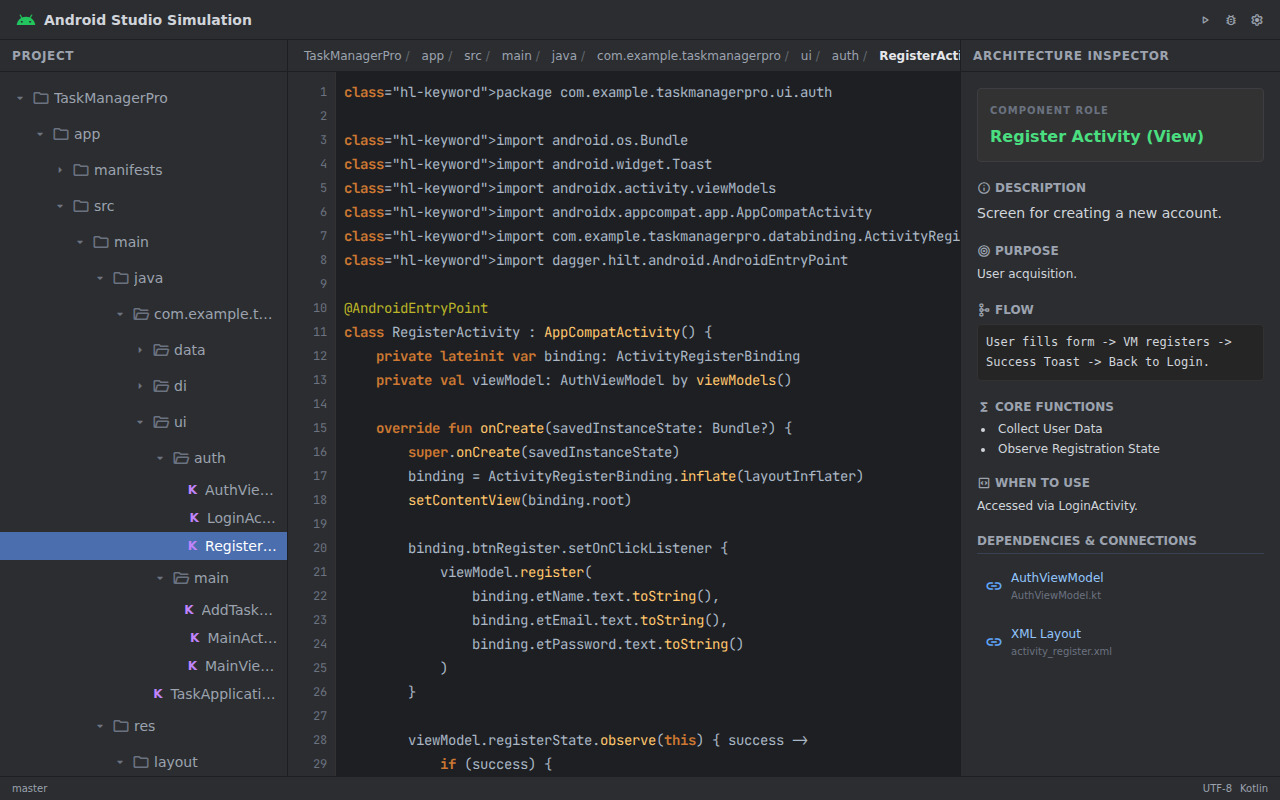
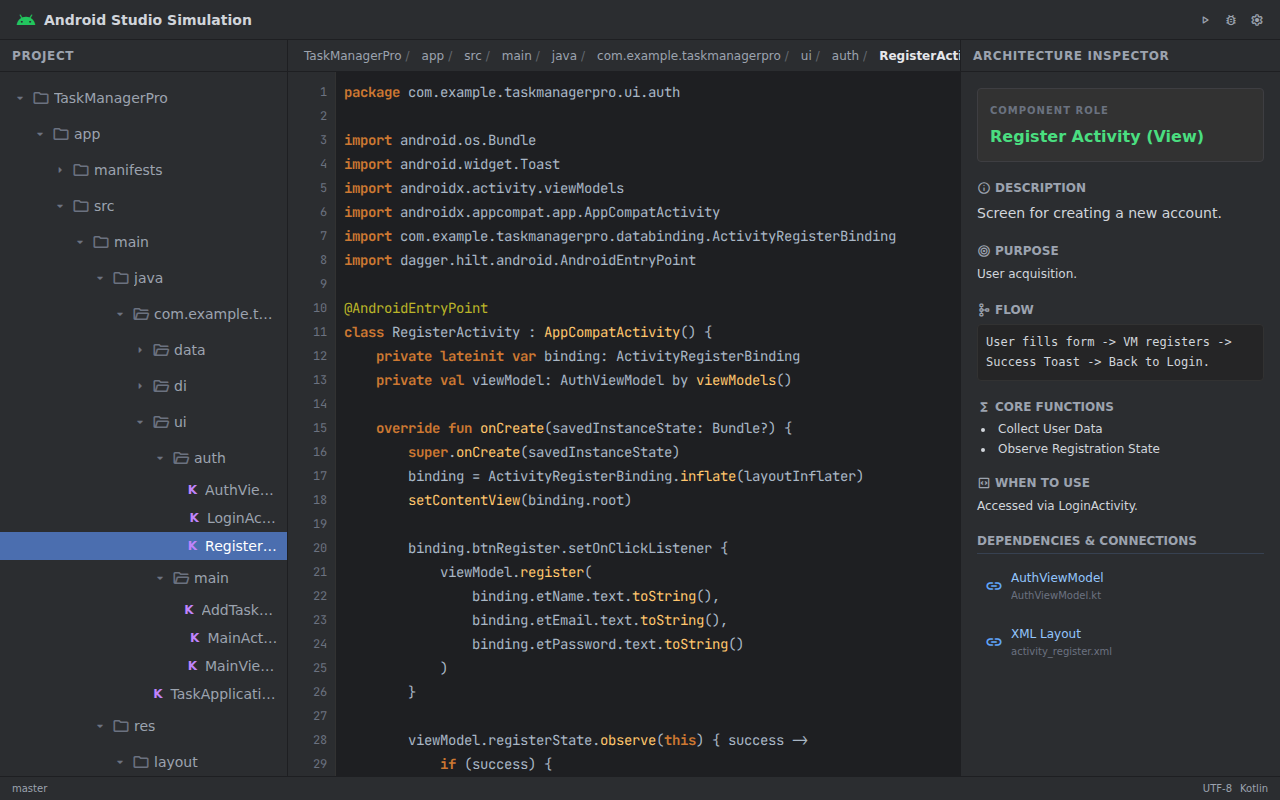
Fix syntax highlighting regex collision
- Refactor `syntaxHighlight` in `script.js` to use a placeholder-based multi-pass strategy.
- Prevents generated HTML attributes (e.g., `class="..."`) from being erroneously matched by keyword regexes (e.g., `class` keyword).
- Ensures correct highlighting for both Kotlin and XML without artifacts.

Changed region(s): [[0.25, 0.1562, 0.75, 0.3438], [0.2812, 0.0938, 0.6562, 0.125]]

diff --git a/script.js b/script.js
@@ -1313,42 +1313,84 @@ function syntaxHighlight(code, language) {
     let cleanCode = code.replace(/&/g, '&amp;').replace(/</g, '&lt;').replace(/>/g, '&gt;');
 
     if (language === 'kotlin') {
-        // Use placeholders to prevent regex overlapping
+        // 1. Hide Strings
         const strings = [];
         cleanCode = cleanCode.replace(/(".*?")/g, (match) => {
             strings.push(match);
             return `___STRING${strings.length - 1}___`;
         });
 
-        // Keywords
+        // 2. Mark Keywords
+        // We use a specific prefix to avoid collision
         const keywords = ["package", "import", "class", "interface", "fun", "val", "var", "return", "if", "else", "for", "while", "true", "false", "null", "this", "super", "object", "companion", "override", "private", "public", "protected", "internal", "lateinit", "constructor", "init", "try", "catch", "finally", "suspend", "data", "sealed", "open", "abstract", "enum"];
+
         keywords.forEach(kw => {
-            // Ensure we don't match inside existing tags (though placeholders prevent this mostly)
             const regex = new RegExp(`\\b${kw}\\b`, 'g');
-            cleanCode = cleanCode.replace(regex, `<span class="hl-keyword">${kw}</span>`);
+            cleanCode = cleanCode.replace(regex, `___KW_${kw}___`);
         });
 
-        // Restore strings
+        // 3. Mark Annotations
+        cleanCode = cleanCode.replace(/(@\w+)/g, '___ANNOTATION_$1___');
+
+        // 4. Mark Numbers
+        cleanCode = cleanCode.replace(/\b(\d+)\b/g, '___NUMBER_$1___');
+
+        // 5. Mark Functions
+        cleanCode = cleanCode.replace(/\b([a-zA-Z]\w*)(?=\()/g, '___FUNCTION_$1___');
+
+        // REPLACE BACK
+        // Order: Annotations, Functions, Keywords, Numbers, Strings
+
+        // Keywords
+        cleanCode = cleanCode.replace(/___KW_(.*?)___/g, '<span class="hl-keyword">$1</span>');
+
+        // Annotations
+        cleanCode = cleanCode.replace(/___ANNOTATION_(@\w+)___/g, '<span class="hl-annotation">$1</span>');
+
+        // Numbers
+        cleanCode = cleanCode.replace(/___NUMBER_(\d+)___/g, '<span class="hl-number">$1</span>');
+
+        // Functions
+        cleanCode = cleanCode.replace(/___FUNCTION_([a-zA-Z]\w*)___/g, '<span class="hl-function">$1</span>');
+
+        // Restore Strings (last to avoid anything matching inside them)
         cleanCode = cleanCode.replace(/___STRING(\d+)___/g, (match, i) => {
             return `<span class="hl-string">${strings[i]}</span>`;
         });
 
-        // Annotations
-        cleanCode = cleanCode.replace(/(@\w+)/g, '<span class="hl-annotation">$1</span>');
-        // Numbers
-        cleanCode = cleanCode.replace(/\b(\d+)\b/g, '<span class="hl-number">$1</span>');
-        // Functions (simplified detection: word followed by parenthesis)
-        cleanCode = cleanCode.replace(/\b(\w+)(?=\()/g, '<span class="hl-function">$1</span>');
-
     } else if (language === 'xml') {
-        // Comments
-        cleanCode = cleanCode.replace(/(&lt;!--[\s\S]*?--&gt;)/g, '<span class="hl-comment">$1</span>');
-        // Tags
-        cleanCode = cleanCode.replace(/(&lt;\/?)([\w:.]+)/g, '$1<span class="hl-tag">$2</span>');
-        // Attributes
-        cleanCode = cleanCode.replace(/(\s)([\w:.-]+)(=)/g, '$1<span class="hl-attribute">$2</span>$3');
-        // Attribute Values
-        cleanCode = cleanCode.replace(/(".*?")/g, '<span class="hl-value">$1</span>');
+         // 1. Comments
+         const comments = [];
+         cleanCode = cleanCode.replace(/(&lt;!--[\s\S]*?--&gt;)/g, (match) => {
+             comments.push(match);
+             return `___COMMENT${comments.length-1}___`;
+         });
+
+         // 2. Attribute Values (Strings)
+         const values = [];
+         cleanCode = cleanCode.replace(/(".*?")/g, (match) => {
+             values.push(match);
+             return `___VALUE${values.length-1}___`;
+         });
+
+         // 3. Tags
+         cleanCode = cleanCode.replace(/(&lt;\/?)([\w:.]+)/g, '$1___TAG_$2___');
+
+         // 4. Attributes
+         cleanCode = cleanCode.replace(/(\s)([\w:.-]+)(=)/g, '$1___ATTR_$2___$3');
+
+         // RESTORE
+         // Attributes
+         cleanCode = cleanCode.replace(/___ATTR_([\w:.-]+)___/g, '<span class="hl-attribute">$1</span>');
+
+         // Tags
+         cleanCode = cleanCode.replace(/___TAG_([\w:.]+)___/g, '<span class="hl-tag">$1</span>');
+
+         // Values
+         cleanCode = cleanCode.replace(/___VALUE(\d+)___/g, (match, i) => `<span class="hl-value">${values[i]}</span>`);
+
+         // Comments
+         cleanCode = cleanCode.replace(/___COMMENT(\d+)___/g, (match, i) => `<span class="hl-comment">${comments[i]}</span>`);
     }
 
     return cleanCode;
